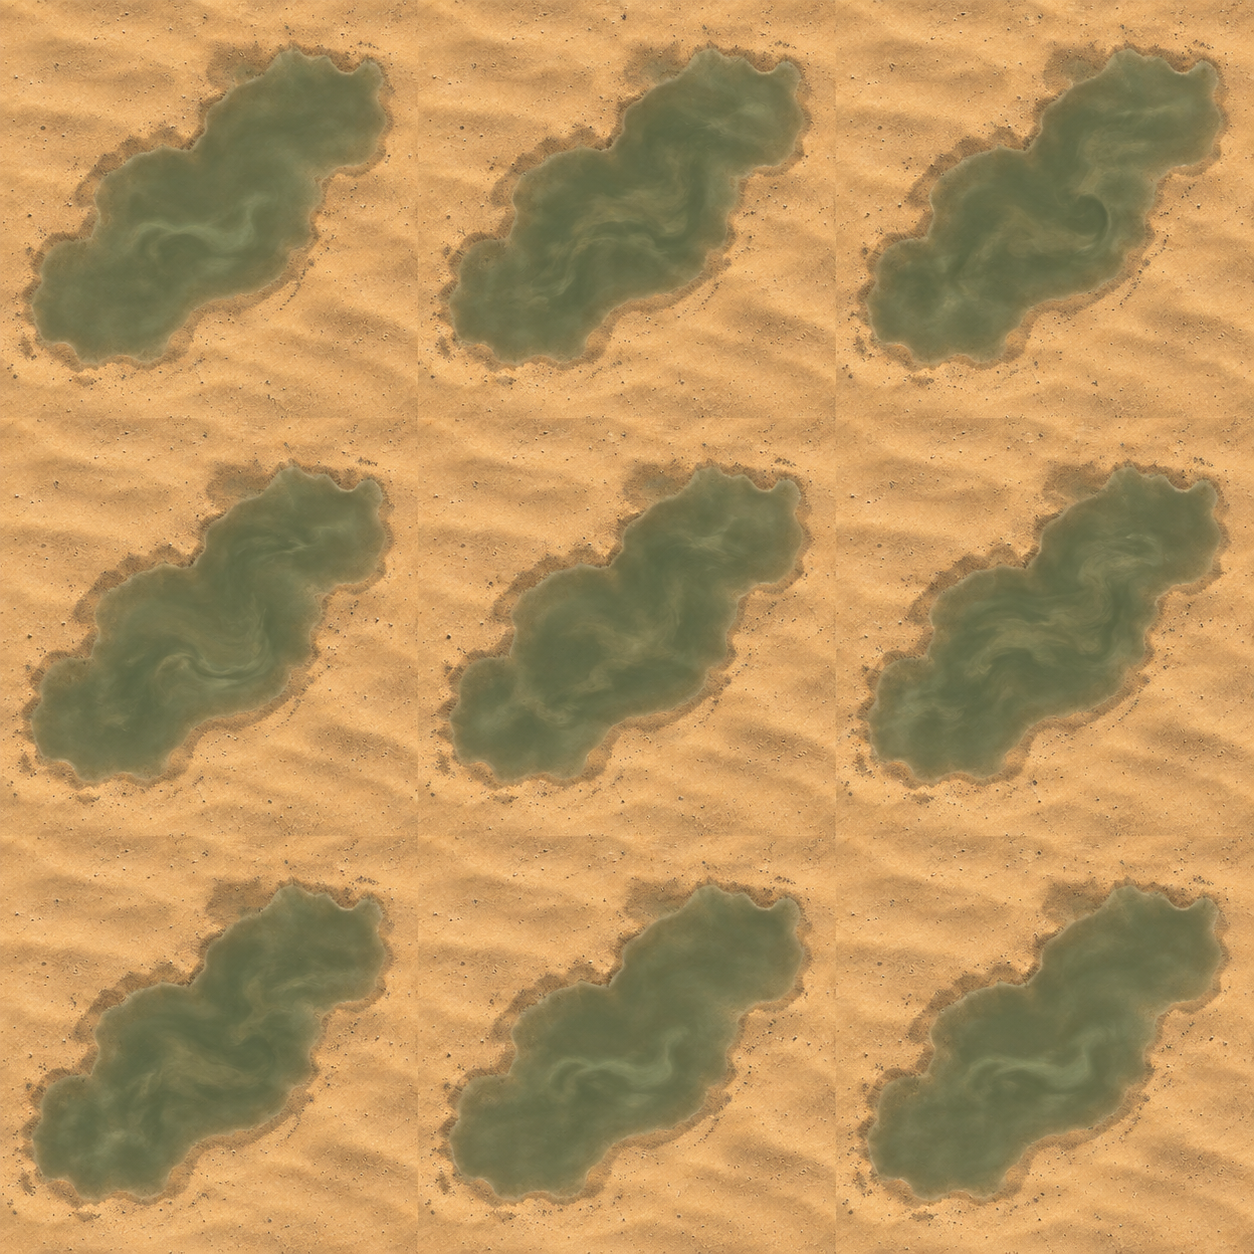
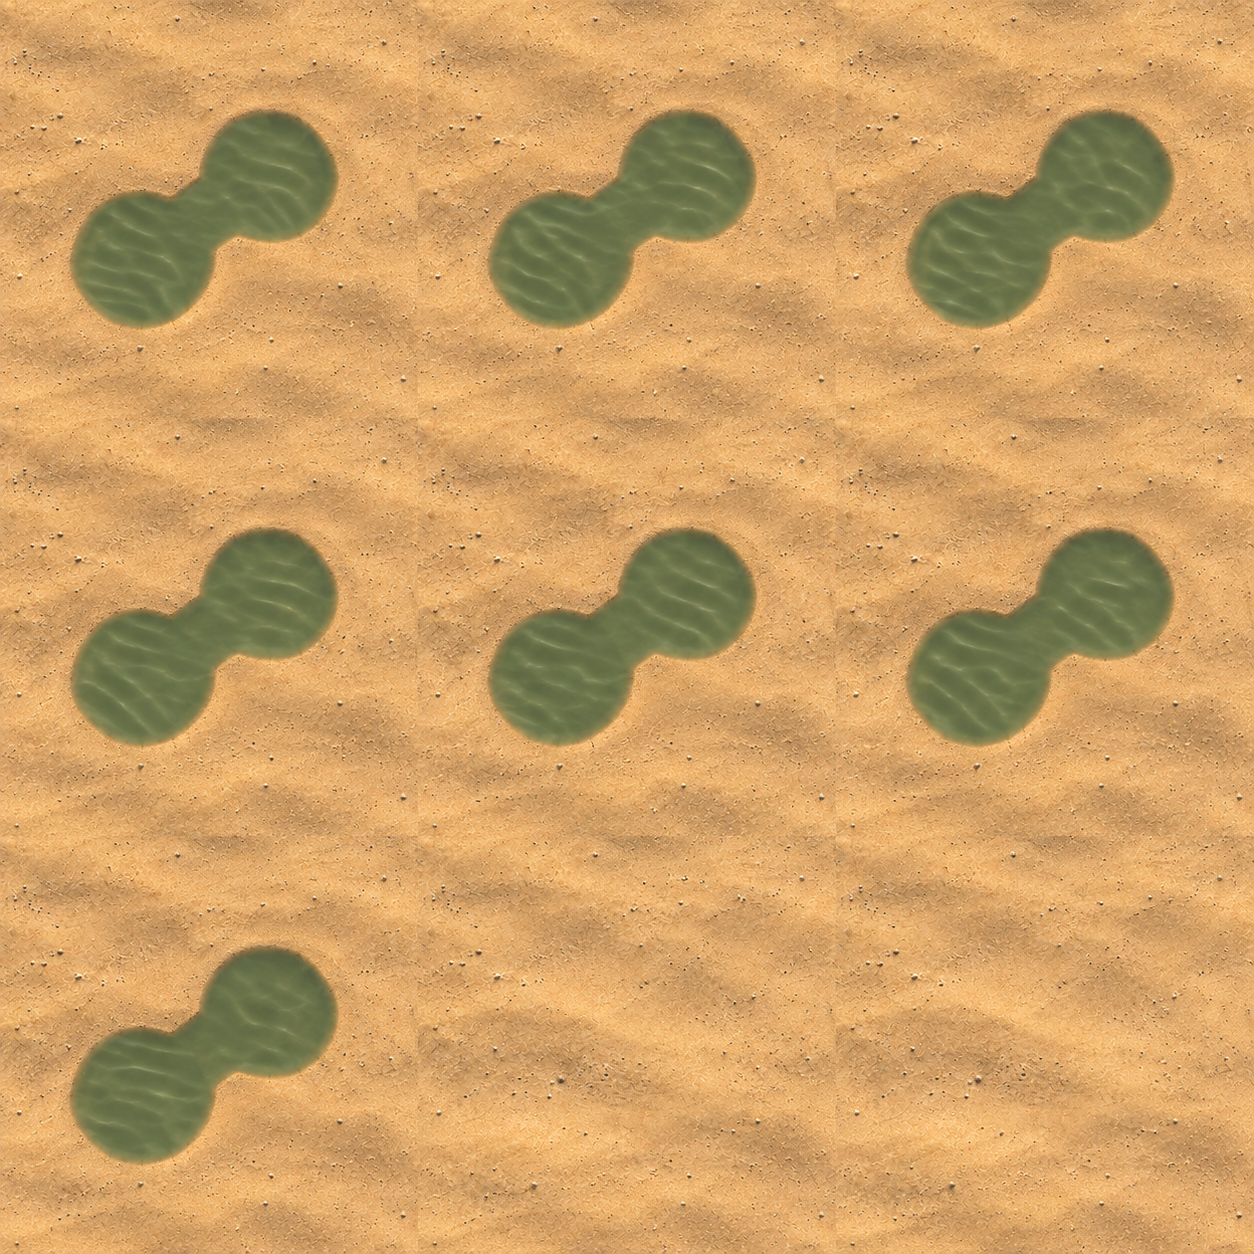
Redraw acid lakes with enclosing shores for both biomes

diff --git a/Tools/terrain-assets/extract.py b/Tools/terrain-assets/extract.py
@@ -10,6 +10,7 @@ from PIL import Image
 ROOT = Path(__file__).resolve().parents[2]
 parser = argparse.ArgumentParser()
 parser.add_argument('--biome', choices=['Desert', 'AridSteppe'], default='Desert')
+parser.add_argument('--group', choices=['AcidLake', 'Canyon', 'BoilingMud', 'GiantMachineWreck'])
 args = parser.parse_args()
 SOURCE = Path(__file__).resolve().parent / 'Sources'
 if args.biome == 'AridSteppe': SOURCE = SOURCE / 'AridSteppe'
@@ -21,30 +22,42 @@ def extract(square, x, y, radius, output):
     box = ((x-radius)*w, (y-radius)*h, (x+radius)*w, (y+radius)*h)
     square.transform((512, 512), Image.Transform.EXTENT, box, Image.Resampling.BICUBIC).save(output)
 
-atlas = Image.open(SOURCE/'AcidLake_7PhaseSource.png').convert('RGB')
-assert atlas.width == atlas.height and atlas.width % 3 == 0
-size = atlas.width // 3
-radius = .32 / 1.5
-for frame in range(7):
-    col, row = frame % 3, frame // 3
-    square = atlas.crop((col*size, row*size, (col+1)*size, (row+1)*size))
-    for part, (x,y) in enumerate([(.32,.62), (.64,.62-math.sqrt(3)*radius/2)], 1):
-        extract(square, x, y, radius, OUT/f'AcidLake_Part{part}_{frame:02}.png')
-canyon = Image.open(SOURCE/'Canyon_Source.png').convert('RGB')
-for part,(x,y) in enumerate([(.35,.75),(.65,.75-math.sqrt(3)*.1),(.65,.75-math.sqrt(3)*.3)],1):
-    extract(canyon,x,y,.2,OUT/f'Canyon_Part{part}.png')
-print('Extracted 14 lake frames and 3 canyon parts:', OUT)
+if args.group in (None, 'AcidLake'):
+    atlas = Image.open(SOURCE/'AcidLake_7PhaseSource.png').convert('RGB')
+    assert atlas.width == atlas.height and atlas.width % 3 == 0
+    size = atlas.width // 3
+    # Source-image sampling only: keep every outer coast inside the existing hex mesh.
+    radius = .28 if args.biome == 'AridSteppe' else .27
+    first_center = (.27, .57) if args.biome == 'AridSteppe' else (.27, .655)
+    centers = [first_center, (first_center[0] + 1.5*radius, first_center[1]-math.sqrt(3)*radius/2)]
+    for frame in range(7):
+        col, row = frame % 3, frame // 3
+        square = atlas.crop((col*size, row*size, (col+1)*size, (row+1)*size))
+        for part, (x,y) in enumerate(centers, 1):
+            extract(square, x, y, radius, OUT/f'AcidLake_Part{part}_{frame:02}.png')
 
-# New complexes use the same continuous source sampling as lakes/canyons.
-atlas = Image.open(SOURCE/'BoilingMud_7PhaseSource.png').convert('RGB')
-assert atlas.width == atlas.height and atlas.width % 3 == 0
-size = atlas.width // 3
-for frame in range(7):
-    col, row = frame % 3, frame // 3
-    square = atlas.crop((col*size, row*size, (col+1)*size, (row+1)*size))
-    for part, (x,y) in enumerate([(.32,.62), (.64,.62-math.sqrt(3)*radius/2)], 1):
-        extract(square,x,y,radius,OUT/f'BoilingMud_Part{part}_{frame:02}.png')
-wreck = Image.open(SOURCE/'GiantMachineWreck_Source.png').convert('RGB')
-for part in range(3):
-    extract(wreck,.20+.30*part,.72-math.sqrt(3)*.1*part,.2,OUT/f'GiantMachineWreck_Part{part+1}.png')
-print('Extracted 14 mud frames and 3 wreck parts:', OUT)
+if args.group in (None, 'Canyon'):
+    canyon = Image.open(SOURCE/'Canyon_Source.png').convert('RGB')
+    for part,(x,y) in enumerate([(.35,.75),(.65,.75-math.sqrt(3)*.1),(.65,.75-math.sqrt(3)*.3)],1):
+        extract(canyon,x,y,.2,OUT/f'Canyon_Part{part}.png')
+    print('Extracted 14 lake frames and 3 canyon parts:', OUT)
+
+    # New complexes use the same continuous source sampling as lakes/canyons.
+
+if args.group in (None, 'BoilingMud'):
+    atlas = Image.open(SOURCE/'BoilingMud_7PhaseSource.png').convert('RGB')
+    assert atlas.width == atlas.height and atlas.width % 3 == 0
+    size = atlas.width // 3
+    radius = .32 / 1.5
+    for frame in range(7):
+        col, row = frame % 3, frame // 3
+        square = atlas.crop((col*size, row*size, (col+1)*size, (row+1)*size))
+        for part, (x,y) in enumerate([(.32,.62), (.64,.62-math.sqrt(3)*radius/2)], 1):
+            extract(square,x,y,radius,OUT/f'BoilingMud_Part{part}_{frame:02}.png')
+
+if args.group in (None, 'GiantMachineWreck'):
+    wreck = Image.open(SOURCE/'GiantMachineWreck_Source.png').convert('RGB')
+    for part in range(3):
+        extract(wreck,.20+.30*part,.72-math.sqrt(3)*.1*part,.2,OUT/f'GiantMachineWreck_Part{part+1}.png')
+    print('Extracted 14 mud frames and 3 wreck parts:', OUT)
+

diff --git a/Tools/terrain-assets/validate_lake_shores.py b/Tools/terrain-assets/validate_lake_shores.py
@@ -1,0 +1,43 @@
+"""Check the authored olive-water footprint against the existing flat-top hex edges.
+
+This palette-specific check samples an inner shore band on the five exterior edges of
+each part, and an open-water window in the shared edge. It is not Unity render QA.
+"""
+from pathlib import Path
+import math
+import numpy as np
+from PIL import Image
+
+ROOT = Path(__file__).resolve().parents[2]
+for biome in ("AridSteppe", "Desert"):
+    worst_outer = 0.0
+    least_connection = 1.0
+    for part in (1, 2):
+        shared = 5 if part == 1 else 2
+        paths = sorted((ROOT / "Assets/Textures/Terrain" / biome / "Complexes").glob(
+            f"AcidLake_Part{part}_*.png"))
+        assert len(paths) == 7
+        for path in paths:
+            rgb = np.asarray(Image.open(path).convert("RGB"), dtype=float)
+            # Acid is olive-green; soil has a distinctly lower green/red ratio.
+            water = (rgb[..., 1] > .92 * rgb[..., 0]) & (rgb[..., 2] < .95 * rgb[..., 1])
+            for edge in range(6):
+                angle = math.radians(edge * 60 + 30)
+                normal = np.array([math.cos(angle), math.sin(angle)])
+                tangent = np.array([-normal[1], normal[0]])
+                offsets = np.linspace(-.22, .22, 89)
+                points = .5 + np.array([
+                    normal * math.sqrt(3) / 4 * depth + tangent * offset
+                    for depth in (.94, .97, .99) for offset in offsets])
+                xy = np.clip(np.rint(points * 511).astype(int), 0, 511)
+                fraction = float(water[xy[:, 1], xy[:, 0]].mean())
+                if edge != shared:
+                    worst_outer = max(worst_outer, fraction)
+                    assert fraction <= .04, f"Water in exterior shore band: {path.name}, edge {edge}, {fraction:.3f}"
+                else:
+                    points = .5 + normal * math.sqrt(3) / 4 + np.linspace(-.04, .04, 25)[:, None] * tangent
+                    xy = np.clip(np.rint(points * 511).astype(int), 0, 511)
+                    fraction = float(water[xy[:, 1], xy[:, 0]].mean())
+                    least_connection = min(least_connection, fraction)
+                    assert fraction >= .90, f"Blocked shared water connection: {path.name}, {fraction:.3f}"
+    print(f"{biome}: 14 frames; five exterior shore edges per part; outer water max={worst_outer:.3f}, shared water min={least_connection:.3f}")

diff --git a/Tools/terrain-assets/normalize_clusters.py b/Tools/terrain-assets/normalize_clusters.py
@@ -422,6 +422,8 @@ def build_contact_sheet(biome: str, pairs: list[tuple[str, str, np.ndarray, np.n
     y += 26
     for group in GROUPS:
         items = [item for item in pairs if item[0] == group]
+        if not items:
+            continue
         draw.text((12, y), group, fill=(245, 245, 245), font=font)
         y += 18
         for idx, (_, name, before, after) in enumerate(items):
@@ -436,7 +438,7 @@ def build_contact_sheet(biome: str, pairs: list[tuple[str, str, np.ndarray, np.n
 
 
 def normalize_biome(config: dict, guids: dict[str, Path], biome: str, write: bool,
-                    report: bool) -> tuple[list[FileMetric], list[str]]:
+                    report: bool, selected_group: str | None = None) -> tuple[list[FileMetric], list[str]]:
     all_refs, placement_refs = resolve_reference_paths(config, biome, guids)
     all_style = texture_style(all_refs)
     placement_style = texture_style(placement_refs)
@@ -447,6 +449,8 @@ def normalize_biome(config: dict, guids: dict[str, Path], biome: str, write: boo
     contact_pairs: list[tuple[str, str, np.ndarray, np.ndarray]] = []
 
     for group, (pattern, expected) in GROUPS.items():
+        if selected_group is not None and group != selected_group:
+            continue
         paths = sorted(complex_dir.glob(pattern))
         if len(paths) != expected:
             raise RuntimeError(f"{biome}/{group}: expected {expected} files, found {len(paths)}")
@@ -601,6 +605,7 @@ def write_report(metrics: list[FileMetric], summaries: list[str]) -> None:
 
 def main() -> None:
     parser = argparse.ArgumentParser()
+    parser.add_argument("--group", choices=list(GROUPS), help="normalize only the selected family")
     parser.add_argument("--write", action="store_true", help="overwrite runtime complex PNGs")
     parser.add_argument("--report", action="store_true", help="write per-file report/contact sheets")
     args = parser.parse_args()
@@ -610,7 +615,7 @@ def main() -> None:
     all_metrics: list[FileMetric] = []
     summaries: list[str] = []
     for biome in ("AridSteppe", "Desert"):
-        metrics, summary = normalize_biome(config, guids, biome, args.write, args.report)
+        metrics, summary = normalize_biome(config, guids, biome, args.write, args.report, args.group)
         all_metrics.extend(metrics)
         summaries.extend(summary)
 

diff --git a/Tools/terrain-assets/preview.py b/Tools/terrain-assets/preview.py
@@ -9,6 +9,7 @@ from PIL import Image, ImageDraw
 ROOT=Path(__file__).resolve().parents[2]
 parser=argparse.ArgumentParser()
 parser.add_argument('--biome',choices=['Desert','AridSteppe'],default='Desert')
+parser.add_argument('--group', choices=['AcidLake', 'Canyon', 'BoilingMud', 'GiantMachineWreck'])
 args=parser.parse_args()
 TEX=ROOT/'Assets/Textures/Terrain'/args.biome
 OUT=ROOT/'Docs/terrain-complexes'
@@ -37,10 +38,11 @@ def render(parts,name):
     result=Image.fromarray(np.clip(rgb,0,255).astype('uint8'))
     if name is not None: result.save(OUT/(args.biome.lower()+'-'+name))
     return result
-render({(0,0):('Complexes/AcidLake_Part1_00.png',0),(1,0):('Complexes/AcidLake_Part2_00.png',0)},'lake-offline-diagnostic.png')
-render({(0,-1):('Complexes/Canyon_Part1.png',0),(1,-1):('Complexes/Canyon_Part2.png',0),(1,0):('Complexes/Canyon_Part3.png',0)},'canyon-offline-diagnostic.png')
+if args.group in (None, 'AcidLake'): render({(0,0):('Complexes/AcidLake_Part1_00.png',0),(1,0):('Complexes/AcidLake_Part2_00.png',0)},'lake-offline-diagnostic.png')
+if args.group in (None, 'Canyon'): render({(0,-1):('Complexes/Canyon_Part1.png',0),(1,-1):('Complexes/Canyon_Part2.png',0),(1,0):('Complexes/Canyon_Part3.png',0)},'canyon-offline-diagnostic.png')
 
 for family, label in [('AcidLake', 'lake'), ('BoilingMud', 'mud')]:
+    if args.group not in (None, family): continue
     frames=[]
     sheet=Image.new('RGB', (1320, 708), (30,30,30))
     draw=ImageDraw.Draw(sheet)
@@ -52,4 +54,4 @@ for family, label in [('AcidLake', 'lake'), ('BoilingMud', 'mud')]:
         draw.text((x+8,y+334),f'{args.biome} {family} frame {frame:02} (offline)',fill=(240,240,240))
     frames[0].save(OUT/(args.biome.lower()+f'-{label}-offline-animation.gif'),save_all=True,append_images=frames[1:],duration=333,loop=0)
     sheet.save(OUT/(args.biome.lower()+f'-{label}-all-frames-offline.png'),optimize=True)
-render({(-1,0):('Complexes/GiantMachineWreck_Part1.png',0),(0,0):('Complexes/GiantMachineWreck_Part2.png',0),(1,0):('Complexes/GiantMachineWreck_Part3.png',0)},'wreck-offline-diagnostic.png')
+if args.group in (None, 'GiantMachineWreck'): render({(-1,0):('Complexes/GiantMachineWreck_Part1.png',0),(0,0):('Complexes/GiantMachineWreck_Part2.png',0),(1,0):('Complexes/GiantMachineWreck_Part3.png',0)},'wreck-offline-diagnostic.png')

diff --git a/Docs/terrain-complexes/lake-enclosed-shores-review.md b/Docs/terrain-complexes/lake-enclosed-shores-review.md
@@ -1,0 +1,39 @@
+# Enclosed acid lake shore correction
+
+The user's Unity screenshot rejected the previous palette-only acceptance: water reached
+multiple exterior hex sides, and banks did not integrate with their biome.
+
+## Correction
+
+New imagegen source atlases use continuous dry ground around a connected two-lobed olive lake.
+Each biome is authored against its original Desert_01.png; seven phases vary only water ripples.
+There is no land barrier between the two parts. The existing mesh still renders its dark shared seam.
+
+Source-image sampling is independently fitted for each atlas to place the whole outer coastline
+inside the existing hex footprints. Sampling centres remain 1.5 radii apart horizontally and
+sqrt(3)/2 radii apart vertically, retaining identical shared world coordinates.
+No runtime mesh, configuration, GUID, alpha, camera or game rule changes are needed.
+
+Extraction and normalization can now select AcidLake only. Canyon, BoilingMud and wreck PNGs
+remain unchanged. New sources are extracted before normalization, avoiding cumulative correction.
+
+## Verification
+
+validate_lake_shores.py checks all 28 frames: each part has five dry exterior edge bands,
+and the shared side has an open central water connection. Its olive-water classifier is
+specific to these atlases and is accompanied by assembled visual review, not used as a
+general semantic segmentation model.
+
+The existing config/asset validation and source-integrity check protect image dimensions,
+modes, alpha, GUIDs and other assets. Independent audit and all-seven-phase previews are refreshed.
+
+Status: generated artwork and local shoreline checks pass; full branch CI and final assembled
+colour review are in progress. Unity engine acceptance remains unverified.
+
+## Generation record
+
+Built-in imagegen, two biome-specific square 3x3 atlases. Inputs: exact two-hex footprint guide
+and the biome's original Desert_01.png. Prompt requirements: seven occupied panels, last two
+terrain-only; identical stationary ground and shore; muted olive acid with subtle cyclic ripples;
+dry soil at all exterior sides; open water at the shared side; match original soil palette,
+texture and lighting; no hex outlines, text, UI, grids, frame, orange bank stripe or raised coast.

diff --git a/Docs/terrain-complexes/final-visual-review.md b/Docs/terrain-complexes/final-visual-review.md
@@ -1,4 +1,4 @@
-# Final terrain complex visual review
+# Previous terrain complex visual review — superseded
 
 Date: 2026-10-01
 Repository: HolyPenguin21/turnbased-ae-style
@@ -6,7 +6,13 @@ Branch: asset/terrain-complex-palette-normalization
 Authored source / unchanged master: c3d52f46ad99cc06f4772b702e4e9b38efbc96c4
 Reviewed runtime asset baseline: 3774b1c6106c07063fd556204b6cb59582502fce
 
-## Outcome
+## Review rejected by in-game evidence
+
+The user's 2026-10-01 Unity screenshot showed missing exterior shores and biome soil mismatch.
+The offline acceptance below was insufficient and must not be treated as current approval.
+See lake-enclosed-shores-review.md for the correction and its pending engine acceptance.
+
+## Previous outcome
 
 Offline visual acceptance is complete for the normalized asset set. No further RGB correction
 was warranted after inspecting the latest comparative sheets and assembled complexes.
